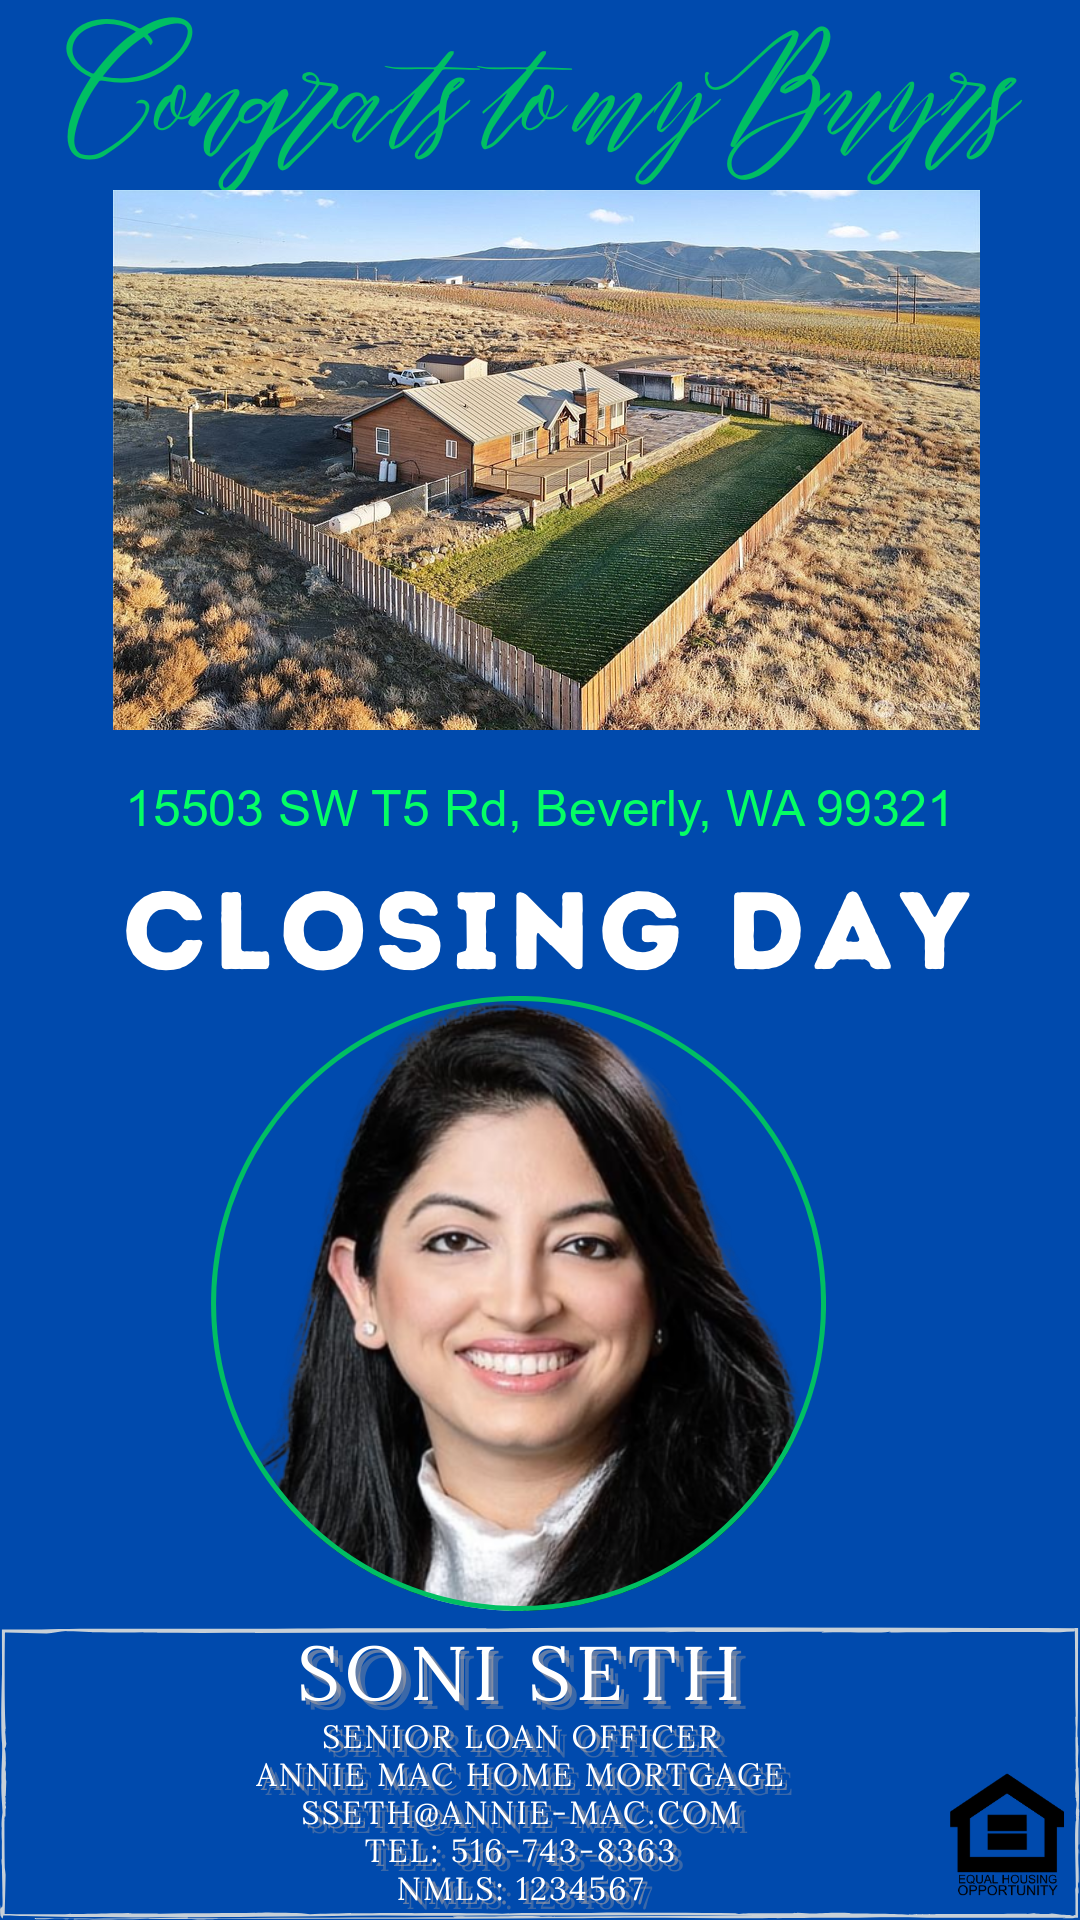
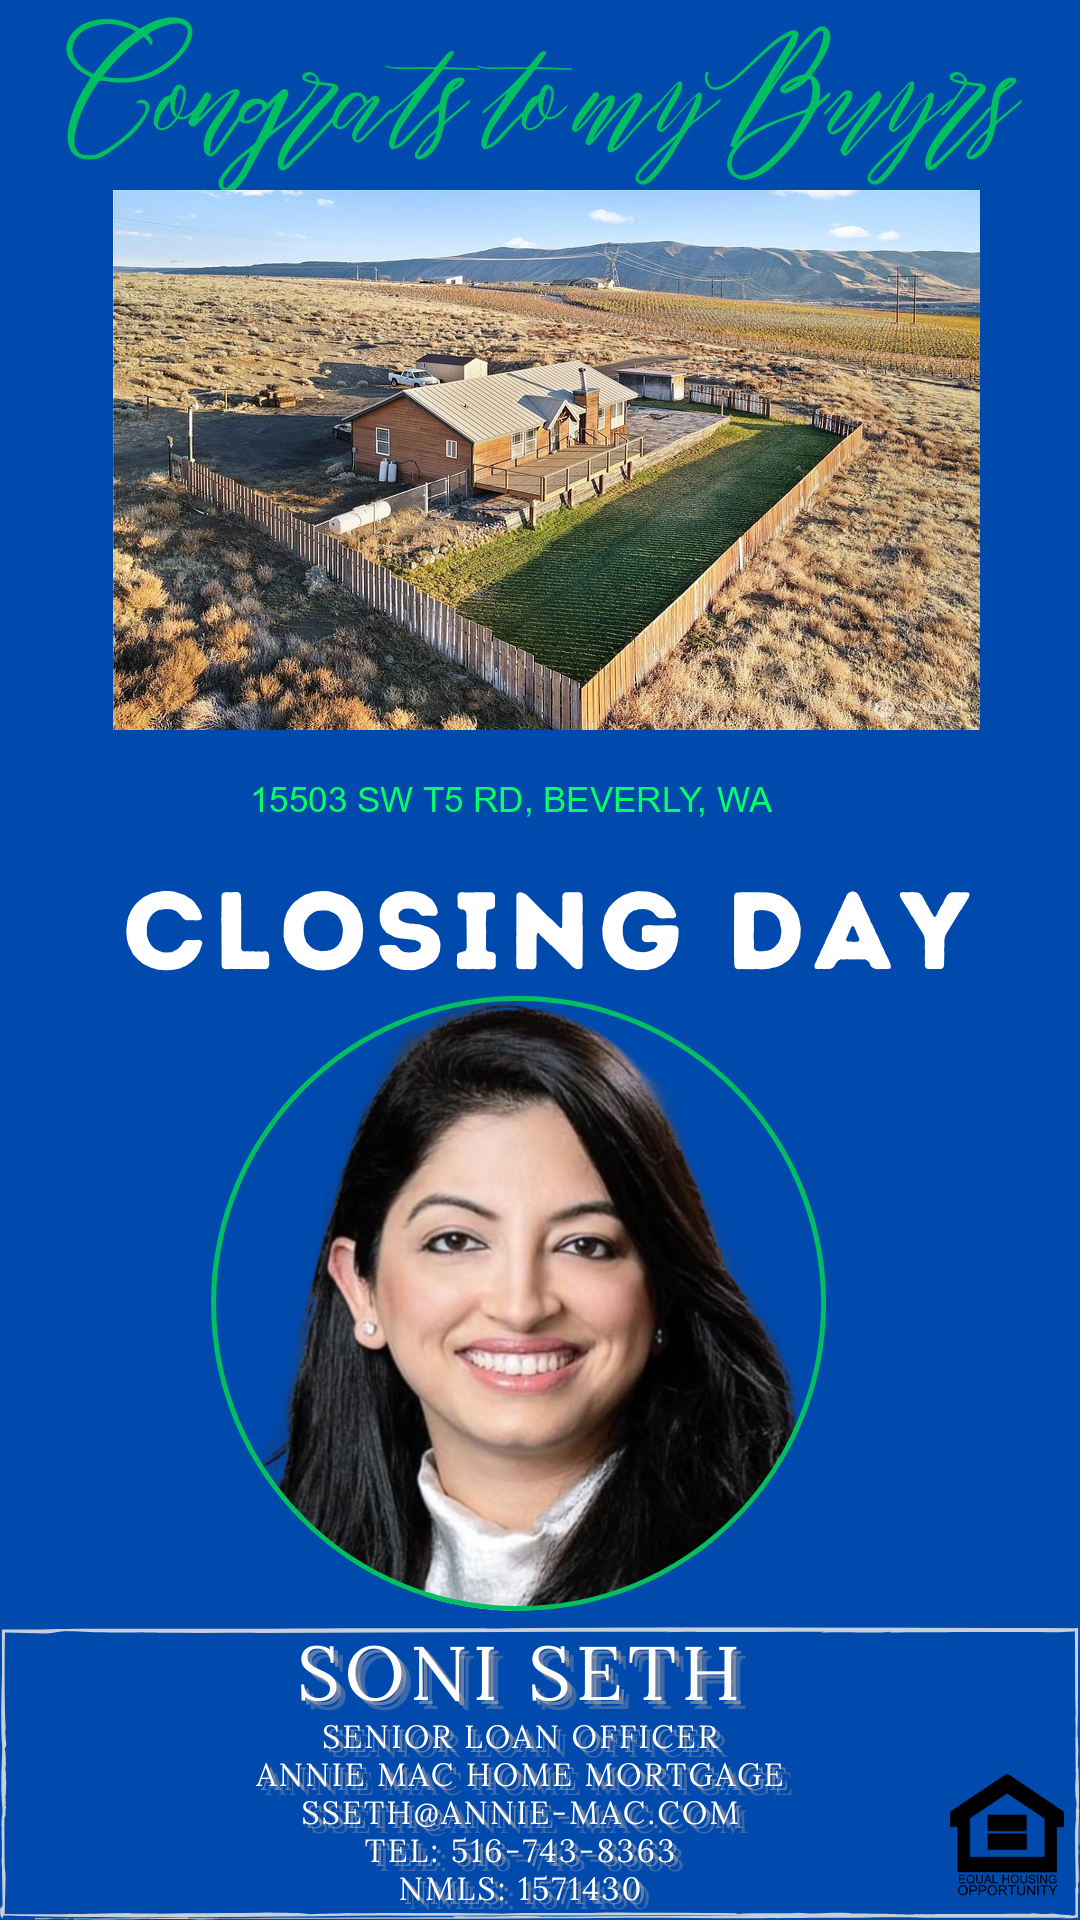
update

Changed region(s): [[0.1222, 0.4062, 0.8861, 0.4375], [0.3667, 0.9688, 0.6111, 1.0]]

diff --git a/chatbotui/src/App.js b/chatbotui/src/App.js
@@ -2,7 +2,7 @@ import React, { useState } from 'react';
 import './App.css';
 
 // Placeholder for the chatbot component
-import ChatBot from './components/ChatBot'; // Assume you have a ChatBot component
+import ChatBot from './components/ChatBot'; 
 
 function App() {
   const [address, setAddress] = useState('');
@@ -10,7 +10,7 @@ function App() {
   const [instagramImage , setInstagramImage] = useState(null);
   const [isConfirmed, setIsConfirmed] = useState(false);
   const [imagepath, setImagepath] = useState('')
-  const baseUrl = 'https://08cc-2600-3c03-00-f03c-91ff-fe6d-9676.ngrok-free.app'
+  const baseUrl = 'http://45.79.156.12:8000'
   const handleAddressInput = (e) => {
     setAddress(e.target.value);
   };
@@ -58,7 +58,7 @@ function App() {
 
       const data = await response.json();
       alert("Successfully posted to Instagram.");
-      console.log(data.message); // Handle success message
+      console.log(data.message); 
     } catch (error) {
       alert("Error: " + error.message);
       console.error("Error:", error);

diff --git a/chatbotui/public/index.html b/chatbotui/public/index.html
@@ -24,7 +24,7 @@
       work correctly both with client-side routing and a non-root public URL.
       Learn how to configure a non-root public URL by running `npm run build`.
     -->
-    <title>React Redux App</title>
+    <title>Instagram Bot</title>
   </head>
   <body>
     <noscript>You need to enable JavaScript to run this app.</noscript>

diff --git a/chatbotui/src/index.js b/chatbotui/src/index.js
@@ -17,7 +17,4 @@ root.render(
   </React.StrictMode>
 );
 
-// If you want to start measuring performance in your app, pass a function
-// to log results (for example: reportWebVitals(console.log))
-// or send to an analytics endpoint. Learn more: https://bit.ly/CRA-vitals
 reportWebVitals();

diff --git a/main.py b/main.py
@@ -40,7 +40,7 @@ logging.basicConfig(level=logging.INFO, format="%(asctime)s - %(levelname)s - %(
 # CORS configuration
 app.add_middleware(
     CORSMiddleware,
-    allow_origins=["http://localhost:3000", "https://zillow-instagram.vercel.app"],
+    allow_origins=["http://localhost:3000", "https://zillow-instagram.vercel.app", "http://45.79.156.12:3000"],
     allow_credentials=True,
     allow_methods=["*"],
     allow_headers=["*"],
@@ -149,16 +149,21 @@ def overlay_text_on_image(image_path, text, y_pos=780, font_size=50, text_color=
     )
     template.paste(new_image_resized, replacement_area)
 
+    if len_text >20:
+        font_size = 35
     draw = ImageDraw.Draw(template)
     try:
-        font = ImageFont.truetype("arial.ttf", font_size)
+        font = ImageFont.truetype("/usr/share/fonts/truetype/dejavu/DejaVuSans.ttf", font_size)
     except IOError:
+        print("Font file not found, using default font.")
         font = ImageFont.load_default()
 
     text_bbox = draw.textbbox((0, 0), text, font=font)
-    text_width = text_bbox[2] - text_bbox[0]
+    text_width = (text_bbox[2] - text_bbox[0] ) *1.22
     position = (replacement_area[0] + (replacement_area[2] - replacement_area[0]) // 2 - text_width // 2, y_pos)
-    draw.text(position, text, fill=text_color, font=font)
+    len_text = len(text)
+
+    draw.text(position, text.upper(), fill=text_color, font=font)
 
     if template.mode == 'RGBA':
         template = template.convert('RGB')
@@ -200,8 +205,8 @@ async def scrape_image(address: str):
         return JSONResponse(content={"message": "Internal server error"}, status_code=500)
     
 async def upload_to_instagram(image_path, caption):
-
-    media = cl.photo_upload(image_path, caption)
+    cl= Client()
+    media = cl.photo_upload_to_story(image_path, caption)
     logging.info(f"Uploaded successfully! Media ID: {media.pk}")
 
 @app.post("/upload-image")
@@ -215,22 +220,22 @@ async def upload_image(request: ImageUploadRequest):
         return JSONResponse(content={"message": "Failed to upload image"}, status_code=500)
 
 if __name__ == "__main__":
-    cl = Client()
-    username = os.getenv("INSTAGRAM_USERNAME")
-    password = os.getenv("INSTAGRAM_PASSWORD")
+    # cl = Client()
+    # username = os.getenv("INSTAGRAM_USERNAME")
+    # password = os.getenv("INSTAGRAM_PASSWORD")
 
-    try:
-        cl.login(username, password)
-    except ChallengeRequired as e:
-        # Handle the challenge
-        print("A challenge is required. Please check your email for the verification code.")
-        verification_code = input("Enter the verification code: ")
+    # try:
+    #     cl.login(username, password)
+    # except ChallengeRequired as e:
+    #     # Handle the challenge
+    #     print("A challenge is required. Please check your email for the verification code.")
+    #     verification_code = input("Enter the verification code: ")
         
-        # Resolve the challenge
-        try:
-            cl.challenge_resolve(e.challenge, verification_code)
-            cl.login(username, password)  # Retry login after resolving the challenge
-        except UnknownError as ue:
-            print(f"Unknown error occurred: {ue}")
+    #     # Resolve the challenge
+    #     try:
+    #         cl.challenge_resolve(e.challenge, verification_code)
+    #         cl.login(username, password)  # Retry login after resolving the challenge
+    #     except UnknownError as ue:
+    #         print(f"Unknown error occurred: {ue}")
     import uvicorn
     uvicorn.run(app, host="0.0.0.0", port=8000)

diff --git a/1.py b/1.py
@@ -3,7 +3,7 @@ import requests
 from io import BytesIO
 
 
-template = Image.open("1.png")
+template = Image.open("template.png")
 
 
 new_image = Image.open("15503_SW_T5_Rd,_Beverly,_WA.jpg")
@@ -17,21 +17,23 @@ new_image_resized = new_image.resize((replacement_area[2] - replacement_area[0],
 
 template.paste(new_image_resized, replacement_area)
 
-def overlay_text_on_image(image, text, y_pos =780, font_size=20):
+def overlay_text_on_image(image, text, y_pos =780, font_size=35):
     draw = ImageDraw.Draw(image)
 
     try:
         font = ImageFont.truetype("arial.ttf", font_size) 
     except IOError:
         font = ImageFont.load_default()  
-    text_bbox = draw.textbbox((0, 0), text, font=font)  
-    text_width = text_bbox[2] - text_bbox[0] 
-    position = (image.width // 2 - text_width // 2, y_pos) 
+    text_bbox = draw.textbbox((0, 0), text, font=font)  # Updated line
+    text_width = (text_bbox[2] - text_bbox[0])* 1.22  # Calculate width from bbox
+    text_height = text_bbox[3] - text_bbox[1]
+    print(image.width, text_width)
+    position = (image.width // 2 - text_width // 2 , y_pos) 
     text_color = (5, 255, 100)
-    draw.text(position, text, fill=text_color, font=font) 
+    draw.text(position, text.upper(), fill=text_color, font=font) 
 
 
-overlay_text_on_image(template, "15503 SW T5 Rd, Beverly, WA 99321", y_pos=780, font_size=50)
+overlay_text_on_image(template, "15503 SW T5 Rd, Beverly, WA")
 
 
 template.save("updated_template_with_text.png")
